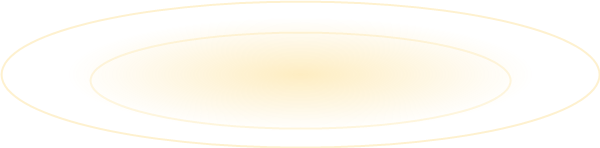
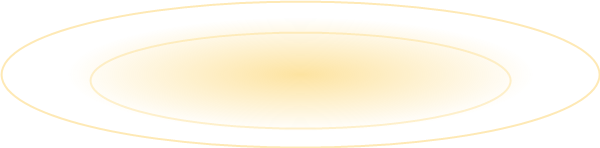
Beasts reactivity pass + dais bake strengthened
View swaps animate as directional cascades (band fades in first, journal rungs 40ms ladder w/ THE BEGINNING landing on its own 0.58s beat; back = the dossier's tighter frev replay). Beast switch: dais flare one-shot + name/badge re-stamp stagger on the existing stagePop land. Fusion enter/exit settle. LEARN arm flash + chip scale-pop. Press feedback on back cards, sort, wide buttons, filter dropdowns (scroll-legal variants where transforms are banned). Sound: swoosh layered on all four view opens; CloseMoveSwap/CloseItemPicker were silent, now PlayBack.

Dais PNGs re-baked ~1.55x hotter (wash 0.28 -> 0.43 peak) - the mock-faithful bake read as a whisper on the dark stage in live capture.

diff --git a/Code/UI/Panels/MonsterRosterPanel.razor.scss b/Code/UI/Panels/MonsterRosterPanel.razor.scss
@@ -2678,6 +2678,28 @@ MonsterRosterPanel {
 	50% { opacity: 0.82; }
 }
 
+// Reactivity pass: SWITCH FLARE — the dais PNG stacked once more,
+// playing a one-shot bright fade on every srev remount (beast switch):
+// the stage light flares as the new beast lands, then parks invisible
+// (fill both holding opacity 0 — harmless). Kept SEPARATE from the
+// user-tuned breathe (comma multi-animation is unproven in-engine, and
+// this doesn't disturb the fresh 1↔0.82 tune).
+@keyframes daisFlare {
+	0% { opacity: 0.55; }
+	100% { opacity: 0; }
+}
+
+.stage-dais-flare {
+	position: absolute;
+	left: 80px;
+	top: 344px;
+	width: 300px;
+	height: 74px;
+	background-repeat: no-repeat;
+	pointer-events: none;
+	animation: daisFlare 0.55s ease-out both;
+}
+
 // (.stage-ground shadow disc CUT 2026-07-03 — user: "remove the element
 // bar thats on the circle". The halo spotlight stands alone; rarity
 // colors the species kicker on the stage plate instead.)
@@ -4434,6 +4456,11 @@ TextEntry.nickname-input {
 	background-color: #130E1D;
 	border: 1px solid #262038;
 	border-radius: 0;
+	// Reactivity pass: the band FADES IN FIRST on every sub-view swap
+	// (mount-driven — the band remounts per swap). Opacity-only: a
+	// transform here would sit above the flex-1 spacer + the back card
+	// (derived-width poison family). Rows follow on their own delays.
+	animation: fsubIn 0.18s ease-out both;
 }
 
 .fsub-id {
@@ -4769,6 +4796,144 @@ TextEntry.nickname-input {
 	font-size: 13px;
 	line-height: 15px;
 	white-space: nowrap; // color inline
+}
+
+// ═══════════════════════════════════════════════════════════════════
+// REACTIVITY PASS (2026-07-05, user: "moving between things should
+// feel reactive") — view-swap + beast-switch choreography. Everything
+// here is MOUNT-driven: the facts @if branches create fresh elements
+// on every swap, so entrance keyframes fire naturally (no new render
+// keys). INSIDE the scroll: opacity-only (scroll-clip law). The band
+// (outside the scroll) also stays opacity-only — a transform there
+// would sit ABOVE its flex-1 spacer + interactive back card (derived-
+// width poison family). Volatile-class elements (picker rows: armed/
+// kb-focused swap their class strings, and a class-string change =
+// fresh mount, the select-pulse mechanism) get NO row cascade — it
+// would replay on every cursor move; their moment is the band fade +
+// swoosh. Stable-class elements (jm-cards, inline-equipped, sections)
+// carry the cascades.
+// ═══════════════════════════════════════════════════════════════════
+
+// The band fades in first…
+@keyframes fsubIn {
+	from { opacity: 0; }
+	to { opacity: 1; }
+}
+
+// …then the journal cards cascade top-down (the story reads backwards
+// — THE BEGINNING lands last on a longer beat, see the origin rule).
+@keyframes jmIn {
+	from { opacity: 0; }
+	to { opacity: 1; }
+}
+
+.facts-scroll.picking > .jm-card {
+	animation: jmIn 0.22s ease-out both;
+}
+
+// Delay ladder — 12 rungs cover the tallest realistic viewport; rows
+// past 12 sit below the fold and may appear at delay 0 unseen.
+// Longhands AFTER the shorthand rule (delay-clobber law).
+.facts-scroll.picking > .jm-card:nth-child(1)  { animation-delay: 0.06s; }
+.facts-scroll.picking > .jm-card:nth-child(2)  { animation-delay: 0.10s; }
+.facts-scroll.picking > .jm-card:nth-child(3)  { animation-delay: 0.14s; }
+.facts-scroll.picking > .jm-card:nth-child(4)  { animation-delay: 0.18s; }
+.facts-scroll.picking > .jm-card:nth-child(5)  { animation-delay: 0.22s; }
+.facts-scroll.picking > .jm-card:nth-child(6)  { animation-delay: 0.26s; }
+.facts-scroll.picking > .jm-card:nth-child(7)  { animation-delay: 0.30s; }
+.facts-scroll.picking > .jm-card:nth-child(8)  { animation-delay: 0.34s; }
+.facts-scroll.picking > .jm-card:nth-child(9)  { animation-delay: 0.38s; }
+.facts-scroll.picking > .jm-card:nth-child(10) { animation-delay: 0.42s; }
+.facts-scroll.picking > .jm-card:nth-child(11) { animation-delay: 0.46s; }
+.facts-scroll.picking > .jm-card:nth-child(12) { animation-delay: 0.50s; }
+
+// THE BEGINNING closes the story — a deliberate extra beat. Equal
+// specificity with the nth rules (4 class-level simples) → later
+// source order wins.
+.facts-scroll.picking > .jm-card.origin { animation-delay: 0.58s; }
+
+// Picker "Replacing/Equipped" strip — stable class, safe to fade.
+.facts-scroll.picking > .inline-equipped {
+	animation: jmIn 0.2s ease-out both;
+	animation-delay: 0.05s;
+}
+
+// GOING BACK: the dossier remounts on sub-view close and its existing
+// frev cascade (0.05–0.22s — tighter than the journal's ladder, so
+// "back" reads faster) replays; STATS is deliberately un-frev'd (its
+// bars must TWEEN on beast switch), so it alone popped on back-swap.
+// A mount-only fade covers it: plays when the element is CREATED
+// (view swaps), never on beast switch (the element persists there —
+// exactly the selective-keying split).
+.facts-scroll > .stats-section {
+	animation: factsIn 0.24s ease-out both;
+}
+
+// FUSION ENTER: the gene ledger cascades in after the 13c band's fade
+// (branch remount fires it; exit = the dossier cascade, free).
+.facts-scroll > .genes-zone {
+	animation: factsIn 0.24s ease-out both;
+	animation-delay: 0.08s;
+}
+
+// ── 4A ARM POP — the armed row flashes its ring on arm and the LEARN
+// chip scales in. Both fire via the class-change remount (arming swaps
+// the row's and chip's class strings = fresh mounts). The chip's
+// keyframes BAKE the static skewX(-12deg) into every step (skewed-chip
+// keyframe law); fill NONE settles it back onto the stylesheet skew.
+// Chip scale is a transform inside the scroll — transient, ±5px paint
+// on a 30px leaf, inside the cut-square leak budget.
+@keyframes mvpArmFlash {
+	0% { border-color: #C4B0FF; background-color: rgba(139, 92, 246, 0.2); }
+	100% { border-color: #8B5CF6; background-color: rgba(139, 92, 246, 0.08); }
+}
+
+.move-diamond-slot.mvp.armed {
+	animation: mvpArmFlash 0.32s ease-out;
+}
+
+@keyframes mvpLearnIn {
+	0% { transform: skewX(-12deg) scale(0.7); opacity: 0; }
+	60% { transform: skewX(-12deg) scale(1.08); opacity: 1; }
+	100% { transform: skewX(-12deg) scale(1); opacity: 1; }
+}
+
+.mvp-chip.learn {
+	animation: mvpLearnIn 0.2s cubic-bezier(0.2, 0.8, 0.3, 1.1);
+}
+
+// ── PRESS FEEDBACK (reactivity pass) — instant on press via :active.
+// Inside the facts scroll: bg-darken ONLY (scroll-clip law); the band
+// back card + header chips are outside and may scale (skew baked into
+// the sort-btn press — a bare scale would clobber its static skew).
+.picker-back:active {
+	background-color: #130E1D;
+	transform: scale(0.95);
+}
+
+.detail-diamond.wide:active {
+	background-color: #14101F;
+}
+
+.move-diamond-slot.mvp:active {
+	background-color: #241C36;
+}
+
+.inline-item:active {
+	background-color: #2A2348;
+}
+
+// (jm-cards are read-only — no press state; an affordance there would lie.)
+
+.stage-fav:active,
+.nickname-btn:active {
+	background-color: #14101F;
+}
+
+// Header mode toggles — press with the static skew BAKED in.
+.sort-btn:active {
+	background-color: #14101F;
+	transform: skewX(-8deg) scale(0.96);
 }
 
 // V2 Action Buttons
@@ -7217,6 +7382,32 @@ TextEntry.nickname-input {
 	// Wider than the plate — three hero slabs at 15px/900 italic need
 	// the slack ("RELEASE" clipped at 520 in the pass-3 capture).
 	width: 560px;
+}
+
+// Reactivity pass (2026-07-05): the identity re-STAMPS per beast
+// switch — srev-@N remounts fire these. Name = leaf text (a held
+// identity translateY is harmless on a flex-childless leaf); the badge
+// row is OPACITY-ONLY (its chips are auto-width flex children — a held
+// transform would re-arm the derived-width poison). fill both is what
+// hides them through their stagger delays.
+@keyframes plateNameIn {
+	0% { opacity: 0; transform: translateY(5px); }
+	100% { opacity: 1; transform: translateY(0px); }
+}
+
+@keyframes plateRowIn {
+	from { opacity: 0; }
+	to { opacity: 1; }
+}
+
+.cs-stage .species-name {
+	animation: plateNameIn 0.22s ease-out both;
+	animation-delay: 0.03s;
+}
+
+.cs-stage .level-power-row {
+	animation: plateRowIn 0.22s ease-out both;
+	animation-delay: 0.09s;
 }
 
 // Nameplate block — fixed px column (explicit px beats derived

diff --git a/Code/UI/Components/FilterBar.razor.scss b/Code/UI/Components/FilterBar.razor.scss
@@ -71,6 +71,14 @@ FilterBar {
 		border-color: #9b6cff;
 	}
 
+	// Press feedback (2026-07-05 reactivity pass) — bg-darken only:
+	// this is a SHARED component (soup protocol: additive pseudo-state,
+	// no value changes) and its own transform is the static skew, which
+	// a scale would have to bake; the darken alone reads as the press.
+	&:active {
+		background-color: #14101f;
+	}
+
 	.dropdown-icon {
 		width: 16px;
 		height: 16px;

diff --git a/.claude/ui-knowledge/panel-inventory.md b/.claude/ui-knowledge/panel-inventory.md
@@ -377,6 +377,7 @@ _(Deep-dive panels for a specific thing)_
 - **FIELD DOSSIER slate rebuild 2026-07-05 (phase 2, [VERIFY LIVE]):** the facts column is now an ANGLED LEDGER — `.facts-roof` (44px opaque cap OUTSIDE the scroll, z-5, holding a skewY(-2°) `FIELD DOSSIER`/`GENE LEDGER` lid slate 468+32×24) + `.facts-foot` (26px cap, counter-tilted 500×8 shelf); the caps double as the scroll's leak covers. Five slates inside (VITALS = stats + quality/nature folded in; TRAITS; MOVES; RECORD; IDENTITY = info + lineage SOURCE rows merged, `.lineage-section` DELETED): each keeps its padded collapse-safe structure + gains fill `#171221` and two wedge children (`.fd-roof-wedge` lit `#221a35` / `.fd-foot-wedge` shadowed `#110d1d`, 524×14, margins -19/-12, ±1.2° skewY alternating per `fd-slate-a/b`) that STRADDLE the flat edges — the wedge-straddle recipe (learnings 2026-07-05). Section titles ride the rooflines (`margin-top: -8px`). Moves-section padding 14→12 (uniform wedge math), move slabs 471→475. Quality/nature cells 223→211 inside the vitals slate. frev delays: traits .05 / moves .10 / record .16 / info .22 / utility .26 (lineage rule gone). Ring hosts keep flat ancestry — wedges are sibling decoration only.
 - **DESIGN-DOC TRIO 2026-07-05 (turns 7A/5A-6A/4A, user-approved mock "Detail Sidebar.dc"; [VERIFY LIVE except where noted]):** _(the FIELD DOSSIER slate rebuild above was SUPERSEDED same-day by 1B "Signature Edge" — see learnings; this pass builds on 1B.)_ **(1) Wave header:** `BbHeaderWaves` primitive mounted first child of `.roster-header` — counter-flowing accent wave strips (violet, fusion-swaps to pink) drifting per-tick under the header content; header's own bg REMOVED (lives on `.bhw-base`); host rules `.roster-header > .bhw-root` absolute inset-0 + `> *` lift. Seam-fixed live (edge-interior PNG bake + integer-multiple strip). Rollout intent: EVERY page header, per-page accents (expedition green / battle red / journal gold — assets already baked). **(2) Element dais:** `.stage-halo` spotlight DELETED (rule + markup); the beast stands on `Assets/ui/dais/dais-<element>.png` (baked ellipse platter + inner ring, 300×74 at left 80/top 344 in the 460 wrapper) keyed by primary element; intensity knob = the `daisBreathe` keyframe steps (0.7↔0.5 — live-retuned once already). CSS ellipse is IMPOSSIBLE in-engine (border-radius:50% pills; radial paints near-solid) — live-verified. **(3) Learn Move picker (4A):** rows port `.move-diamond-slot` wholesale (+`.mvp` width 520 for the picking context) with ARM-THEN-CONFIRM: `OnMovePickerRowClicked` arms (violet border + chip slot value-swaps to solid LEARN), second hit commits via unchanged `SwapMoveSlot`; kb activation routes through the same dispatch; `pickerArmedMoveId` in BuildHash. Picker headers (both) = back card + Exo2Italic 20 title + fd-head-line/badge "N AVAILABLE". Old `.inline-move-stats`/`.picker-stab-badge`/`.move-pwr` rules inert-frozen. **(4) Font mix:** `.record-value` → Exo2Black roman 24 (hero-numeral register, mock is upright); `.sb-value` stays italic, 19→20.
 - **BATCH 2 2026-07-05 (turns 10A/13a-b-c/8A, user-approved "Detail Sidebar.dc (2)"; [VERIFY LIVE]):** **(1) Journal = in-column sub-view** — `showJournalModal` → `showJournalView`; JOURNAL swaps the facts scroll (same `.picking` mechanic) to `.jm-card` milestone registers (ranked-ready gold / milestone / boss + trophy medallion / rename / evolution in the beast's element with both forms' medallions / origin ALWAYS last, synthesized from ObtainedAt+IsBred); accents computed INLINE (GetJmAccent/JmRgba — no scss cross-product); Expedition + generic entries filtered from display; max-level = display-time synthetic; renames now LOGGED from SaveNickname (content-marker under General — NameChange enum member proposed, Data out of UI scope); journal-modal markup RETIRED, scss inert-frozen; Q closes via the TickInput sub-view branch. **(2) 13-series `.fsub-head` band** — non-scrolling 88px identity band between roof and scroll for ALL facts sub-views: shared `.picker-back` + kicker/name stack + `.fd-head-badge` (new `.dim` quiet variant); ambients = journal starlight (8 twinkle dots) / picker motes (6 rising) / fusion orbit (rotate wrapper + two pink orbs; kicker PINK; status pill = live fusion state; back = ToggleFusionMode, cap says R — R is the fusion exit key). The 4A in-scroll `.inline-picker-header` retired same-day (scss frozen; `.picker-back` survives inside the band). ToggleFusionMode now closes any open sub-view. **(3) GameHUD phone chip (8A)** — `.hud-phone-btn` rebuilt: violet-rim gradient body (54+2×2 = 58×74 occupied), camera notch, screen inset with the violet paw (`ui/icons/pawpad/beasts-violet.svg`, new asset), red badge + page-dark ring at -8/-8 (HUD-root absolute — lawful overhang), square percent-stop corner glow behind (`.hud-phone-glow`, 260px); the gold miniature (halo/device/bezel/speaker/cam) DELETED — classes GameHUD-only. Behavior untouched (OnPhoneClicked / badge source / "8" cap / PhoneLauncher liquid expansion; WALK_DEBUG false).
+- **REACTIVITY PASS 2026-07-05 (final batch this page; [VERIFY LIVE]):** view swaps + beast switches are choreographed — all MOUNT-driven off the existing @if branch swaps (no new render keys except `srev-@stageRevVersion` on stage identity). Band `fsubIn` fade (0.18s, opacity-only — a transform would poison its flex spacer) → journal `jmIn` ladder (12 nth rungs 0.06–0.50s, `.origin` beat 0.58s) / `.inline-equipped` fade; dossier return = existing frev cascade (tighter = reads "back") + `.stats-section` mount fade (plays on swaps, never on beast switches — element persists there, bars still tween); fusion `.genes-zone` fade 0.08s. Beast switch: stagePop (existing) + `.stage-dais-flare` one-shot overlay (second dais img, srev-keyed, 0.55s fade-out — kept separate from the user-tuned 1↔0.82 breathe; comma multi-animation unproven) + species-name `plateNameIn` (translateY, leaf) / level-power-row `plateRowIn` (opacity-only, chip children) staggered 0.03/0.09. Arm pop: `mvpArmFlash` (border/bg) + `mvpLearnIn` (skew-baked scale, fill none) fire via the class-change remount. Press states: picker-back (scale), sort-btn (skew-baked scale), detail-diamond.wide / mvp rows / inline-item / stage-fav / nickname-btn (bg-darken — scroll law or prior no-transform decision), FilterBar `.dropdown-btn:active` (shared component — additive darken only). Sounds: PlaySwoosh layered on journal/picker opens + fusion toggle; PlayBack added to CloseMoveSwap/CloseItemPicker (were silent); beast switch already PlayForward. VOLATILE-CLASS elements (picker rows: kb-focused/armed) deliberately carry NO mount cascade — class change = remount = replay on every cursor move.
 - **Known issues / notes:**
   - **ONE ring, two zones (2026-07-02):** `UpdateGridRing` branches on `kbFocusZone` — grid = Nth-wrapper traversal, detail = `FindPanelByClass(detailScrollRef, "kb-focused")`; small hosts get `.tight` (inset 6, radius 18, z 90 between sidebar 80 and journal 100). `.kb-focused` SCSS is now hover-equivalent fills ONLY (gold alternate cursor retired — user mandate).
   - Duplicated move-picker with MonsterDetailPanel (CLAUDE.md quirk).

diff --git a/.claude/ui-knowledge/learnings.md b/.claude/ui-knowledge/learnings.md
@@ -1212,3 +1212,7 @@ The Beastbook placard identity stack (num/name/element-pills/rarity rows) render
 
 - **2026-07-05: ANIMATED AMBIENT DECORATIONS near a scroll: pin them in a NON-SCROLLING band between the column's cap and the scroll, never inside the scroll.** The 13-series sub-view headers (journal starlight / picker motes / fusion orbit) carry infinite keyframes with transforms (translateY rise, rotate orbit) — inside the scroll they'd paint fully unclipped whenever the band straddled a viewport edge (translateY-teleport law; overflow:hidden doesn't hold either). As a flex sibling between `.facts-roof` and `.facts-scroll` the whole problem vanishes structurally, and the header stays visible while the list scrolls (better UX anyway). Companion recipes proven in the same band: (a) ambient dots = SMALL explicit-size absolute children of the band (the corner-absolute working family — they paint ABOVE the band's own background-color; only FULL-COVER absolute layers hit the paint-behind trap); (b) dots FIRST in DOM = content paints above by flat z-order AND `:nth-child(N)` indices stay stable for per-dot geometry rules (base rule holds the animation SHORTHAND, nth rules set duration/delay LONGHANDS — the delay-clobber law shape); (c) keep each dot's motion range inside the band box — the range IS the containment; (d) 2D `rotate` keyframes on a small decorative wrapper are the precedented spinner family (ArenaPanel, fusion particles) — the 0fps rotation ban is about TILED LAYERS. Source: `.fsub-head` band, MonsterRosterPanel turns 13a/b/c, 2026-07-05.
 - **2026-07-05: Per-kind × per-element accent matrices: COMPUTE the colors as inline styles from a C# hex→rgba helper instead of writing the scss cross-product.** The 10A journal registers need (border tint, corner-glow gradient, icon-tile wash, tag color, medallion rings) × (6 kinds, one fanning out to 11 elements) ≈ 60+ scss rules; instead `GetJmAccent(kind) → (hex, glow)` + `JmRgba(hex, a)` emit ALWAYS-PRESENT inline styles (`style="border-color: @(cond ? tinted : "#262038")"` — both branches emit the property, no ghost-style risk) and the scss holds GEOMETRY only. Same pass, the modal→in-column conversion recipe: SYNTHESIZE display rows the data never wrote — origin ("THE BEGINNING", always last) from `Monster.ObtainedAt`/`IsBred` instead of the raw Caught/Bred entries (works for pre-journal beasts too); max-level detected at display time from `Level >= MaxLevel` (undated, until a real write hook lands in Core — proposed, out of UI scope); missing enum members bridged with a structured content MARKER (`Renamed to "X" — was "Y"` written as type General from the UI-side SaveNickname, display-mapped by prefix — the marker doubles as readable prose in any other journal consumer). Filter the grind (Expedition entries) from display but never from data. Source: 10A milestone journal, MonsterRosterPanel 2026-07-05.
+
+## Reactivity pass — view-swap / beast-switch choreography (2026-07-05)
+
+- **2026-07-05: BRANCH-SWAP VIEWS ANIMATE FOR FREE — when a container's content is an `@if/else` chain, every swap creates fresh elements, so mount keyframes ARE the transition system: no render keys needed for view-to-view choreography** (keys stay necessary only for same-element replays, e.g. beast switch on persistent stage elements). The one trap: **elements whose class strings are VOLATILE (kb-focused cursor, armed state) must NOT carry mount animations — a class-string change is a fresh mount (the select-pulse mechanism), so the entrance would replay on every cursor move.** Roster's split: journal cards + `.inline-equipped` + dossier sections (stable classes) carry the cascades; picker rows (volatile) get NO row cascade — their moment is the band fade + swoosh. The same mechanism is EXPLOITED for the 4A arm pop: arming swaps the row's/chip's classes → remount → `mvpArmFlash` (border/bg keyframe, scroll-legal) + `mvpLearnIn` (skew-baked scale, fill none) fire exactly on arm with zero code. Corollary recipes: an un-keyed section that must TWEEN on beast switch (stats bars) can still take a plain mount fade — it plays on view swaps (element created) and never on switches (element persists); "going back" reads distinct when the return cascade is TIGHTER than the outbound one (dossier 0.05–0.22s vs journal ladder 0.06–0.58s, THE BEGINNING deliberately last). Flare on a user-tuned breathe loop WITHOUT touching the tune: stack the same asset as a second keyed element playing a one-shot fade-out (`.stage-dais-flare`, fill both parks it at opacity 0) — comma multi-animation lists are unproven in-engine, and reshaping the loop would fight the fresh live tune. Sound: `PlaySwoosh` (soft, 0.3×) layered over PlayClick = the page-turn cue on every facts view swap + fusion toggle; CloseMoveSwap/CloseItemPicker were silent → PlayBack. Source: MonsterRosterPanel reactivity pass, 2026-07-05.
